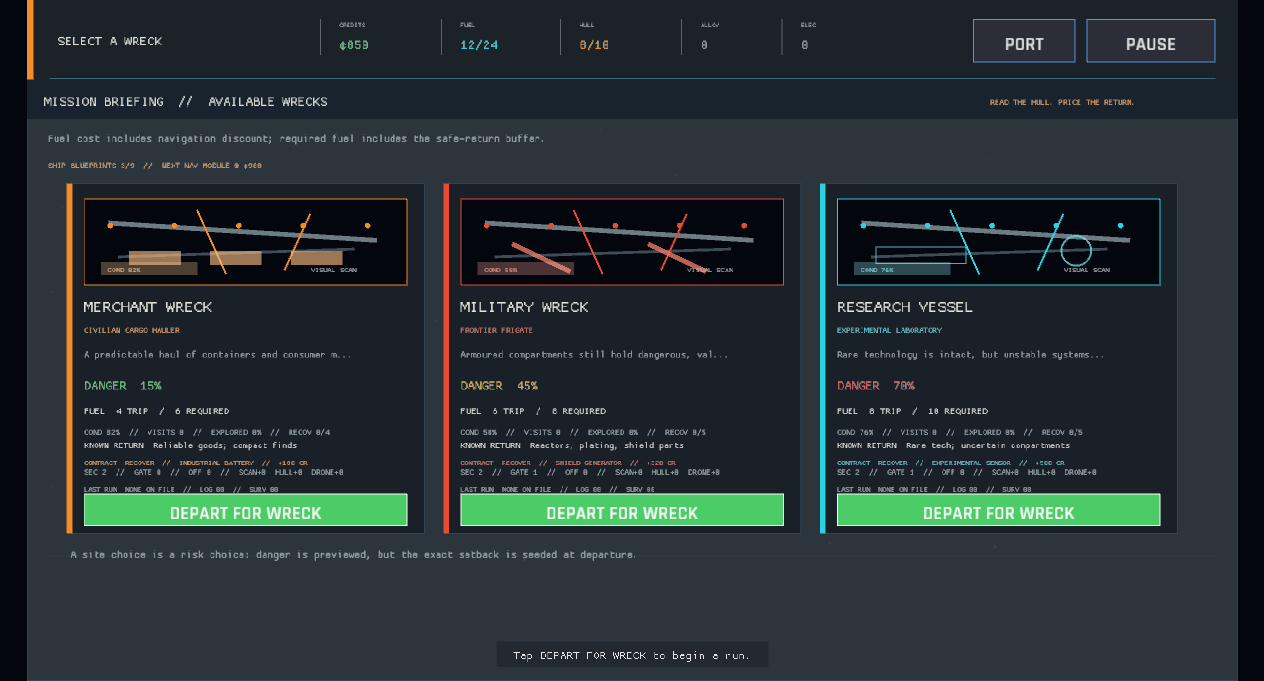
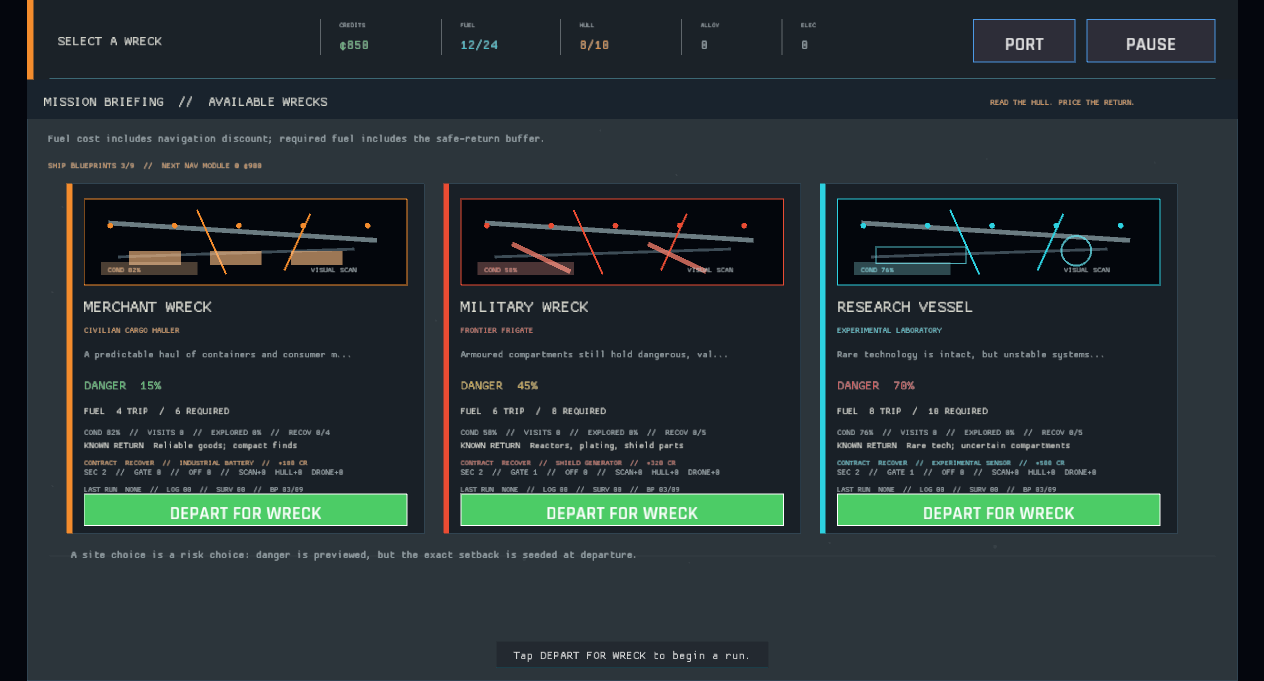
The mission board keeps the blueprint ledger in sight (site telemetry readout)
The last-run telemetry on each wreck card now carries the current unlocked blueprint count, including the empty-history state. Compact formatting, focused coverage, and a refreshed mission-board capture keep the progression handoff readable at the point of departure.

diff --git a/src/ui/site_cards.rs b/src/ui/site_cards.rs
@@ -1,6 +1,7 @@
 //! Mission briefing: three wrecks presented as physical salvage jobs.
 
 use super::*;
+use crate::state::VoyageRecord;
 use crate::ui::visual_theme;
 
 #[cfg(test)]
@@ -226,24 +227,15 @@ fn draw_site_card(
         .get(&site.id)
         .map_or(0, |value| value.operation_log.len());
     let survey_count = ctx.session.site_survey_count(&site.id);
+    let unlocked_blueprints = ctx.session.unlocked_module_count(ctx.data);
+    let total_blueprints = ctx.data.modules.iter().count();
     draw_text(
-        last_run.map_or_else(
-            || {
-                format!(
-                    "LAST RUN  NONE ON FILE  //  LOG {:02}  //  SURV {:02}",
-                    log_count, survey_count
-                )
-            },
-            |record| {
-                format!(
-                    "LAST RUN  {}  //  {} TARGET(S)  //  ¢{}  //  LOG {:02}  //  SURV {:02}",
-                    risk_label(record.risk_outcome),
-                    record.recovered_count,
-                    record.recovered_value,
-                    log_count,
-                    survey_count
-                )
-            },
+        site_last_run_label(
+            last_run,
+            log_count,
+            survey_count,
+            unlocked_blueprints,
+            total_blueprints,
         ),
         rect.x + 18.0,
         rect.y + 326.0,
@@ -270,6 +262,30 @@ fn draw_site_card(
     ) {
         actions.push(UiAction::Depart(site.id.clone()));
     }
+}
+
+fn site_last_run_label(
+    last_run: Option<&VoyageRecord>,
+    log_count: usize,
+    survey_count: usize,
+    unlocked_blueprints: usize,
+    total_blueprints: usize,
+) -> String {
+    let blueprint_label = format!("BP {unlocked_blueprints:02}/{total_blueprints:02}");
+    last_run.map_or_else(
+        || format!("LAST RUN  NONE  //  LOG {log_count:02}  //  SURV {survey_count:02}  //  {blueprint_label}"),
+        |record| {
+            format!(
+                "LAST {}  //  TGT {}  //  ¢{}  //  LOG {:02}  //  SURV {:02}  //  {}",
+                risk_label(record.risk_outcome),
+                record.recovered_count,
+                record.recovered_value,
+                log_count,
+                survey_count,
+                blueprint_label
+            )
+        },
+    )
 }
 
 fn draw_wreck_brief(x: f32, y: f32, width: f32, height: f32, theme: &str, condition: i32) {

diff --git a/src/ui/site_cards/tests.rs b/src/ui/site_cards/tests.rs
@@ -1,4 +1,5 @@
 use super::*;
+use crate::state::WorkspaceScanProfile;
 
 #[test]
 fn mission_briefing_names_the_next_ship_blueprint() {
@@ -8,4 +9,36 @@ fn mission_briefing_names_the_next_ship_blueprint() {
 
     assert!(label.contains("SHIP BLUEPRINTS 3/9"));
     assert!(label.contains("NEXT NAV MODULE @ ¢900"));
+}
+
+#[test]
+fn mission_briefing_keeps_blueprints_on_empty_last_run_line() {
+    let label = site_last_run_label(None, 0, 0, 3, 9);
+
+    assert_eq!(
+        label,
+        "LAST RUN  NONE  //  LOG 00  //  SURV 00  //  BP 03/09"
+    );
+}
+
+#[test]
+fn mission_briefing_keeps_blueprints_on_completed_last_run_line() {
+    let record = VoyageRecord {
+        site_id: "merchant_wreck".to_owned(),
+        recovered_count: 2,
+        recovered_value: 250,
+        external_load: 0,
+        risk_outcome: RiskOutcome::OrdinaryReturn,
+        danger_score: 15,
+        contract_completed: true,
+        contract_failed: false,
+        scan_profile: WorkspaceScanProfile::Standard,
+        condition_after: 80,
+    };
+    let label = site_last_run_label(Some(&record), 4, 3, 5, 9);
+
+    assert_eq!(
+        label,
+        "LAST ORDINARY RETURN  //  TGT 2  //  ¢250  //  LOG 04  //  SURV 03  //  BP 05/09"
+    );
 }
